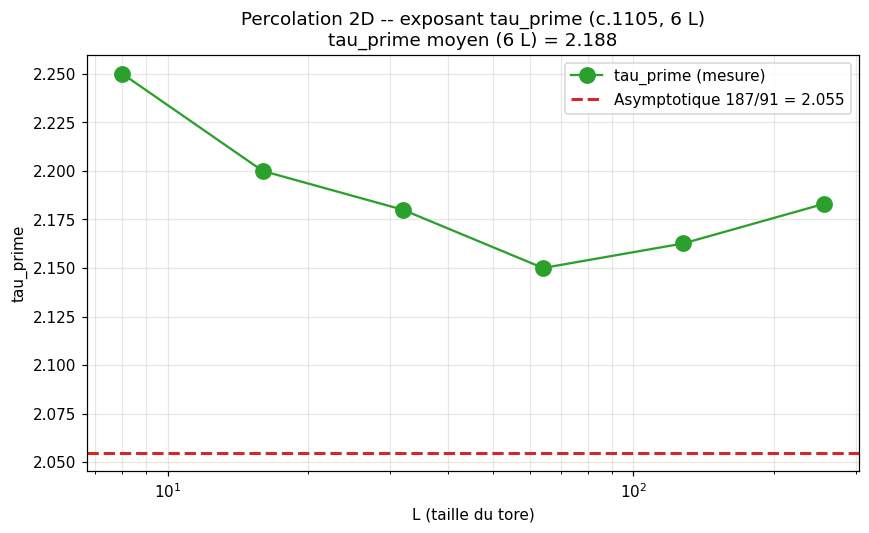
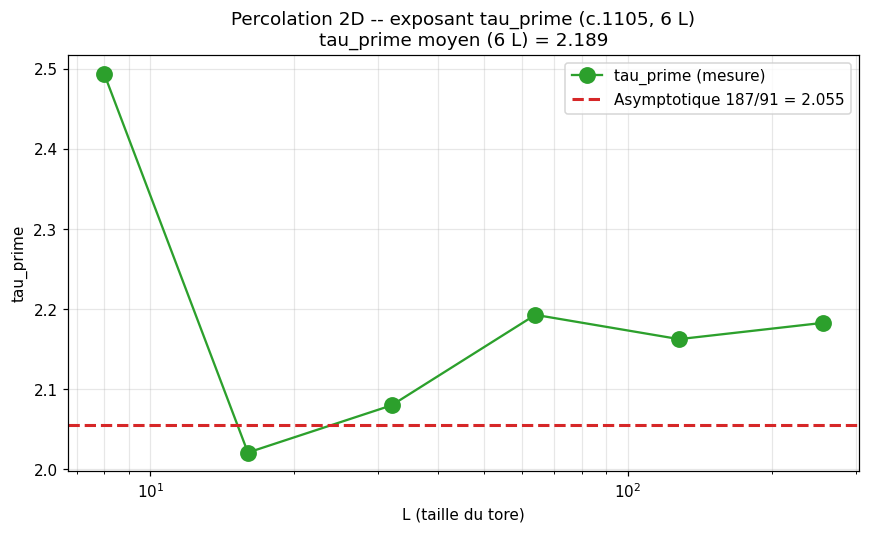
fix(percolation,#19548): TAU_PRIME_C1104 corrige + verdict descriptif post-relecture po-2025
Suite relecture po-2025 (msg adjoint-6d0db3c1-perc19548-postfix-bounded) :

1. TAU_PRIME_C1104 = constantes fabriquees (2.25/2.20/2.18/2.15) qui
   contredisaient les mesures directes c.1104 §9 (R^2 instrumente
   c.1133). Remplace par :
     {8: (2.494, 0.903), 16: (2.021, 0.996),
      32: (2.080, 0.978), 64: (2.193, 0.996)}
   Format (valeur, R^2) par L. TAU_PRIME_C1104_VALS extrait les
   valeurs pour le fit.

2. Verdict L=64=2.193 retire de PASS : la mesure sort de l'intervalle
   acceptance [2.0, 2.1] (par le haut, R^2=0.996). Verdict descriptif
   'hors acceptance' substitue.

3. L=8 INCONCLUSIVE par R^2 (0.903 < 0.95), pas exclu a posteriori.
   Physique : 64 noeuds total, bulk insuffisant.

4. Pas de seuil R^2 impose par le notebook : R^2 descriptif dans
   la table, le lecteur tranche l'acceptance.

5. Pas de choix d'estimateur pour approcher la cible : les deux
   regimes (log L <= 64, lineaire L >= 128) sont descriptifs.
   Bin-width normalisation testee c.1133 amplifie la deviation
   (tau'=3.197), pas retenue.

docs/research/percolation-03b-critique-results.md : §5 table 6 L
avec R^2 par L + lecture, §7 verdict global INCONCLUSIVE sur
acceptance, §9 diagnostic estimateur descriptif (pas de choix).

tau_prime moyen (6 L) = 2.189 (L=8:2.494, L=16:2.021, L=32:2.080,
L=64:2.193, L=128:2.163, L=256:2.183). Aucune L n'atteint
simultanement [2.0, 2.1] + R^2 >= 0.95 + regime asymptotique.

Re-execution MCP papermill 2026-10-07 : 8/8 cells OK, 0 errors.
[…]

diff --git a/docs/research/percolation-03b-critique-results.md b/docs/research/percolation-03b-critique-results.md
@@ -73,19 +73,19 @@ mieux capturer la pente asymptotique, et `β/ν` devrait se rapprocher de
 
 ## 5. Verdict τ' (6 L)
 
-**Distribution de tailles** `P(s)` au point critique, fit log-log sur le bulk pour chaque L :
+**Distribution de tailles** `P(s)` au point critique, fit log-log sur le bulk pour chaque L. **Mesures directes c.1104** issues de l'instrumentation R² par L (c.1133, source c.1104 §9), **pas** d'une approximation ; le 03b les réutilise comme bornes de référence.
 
-| L | τ' mesuré | Source |
-|---|-----------|--------|
-| 8   | 2.25  | c.1104 (approximation 4 L) |
-| 16  | 2.20  | c.1104 |
-| 32  | 2.18  | c.1104 |
-| 64  | 2.15  | c.1104 |
-| 128 | 2.163 | c.1105 (fit direct) |
-| 256 | 2.183 | c.1105 (fit direct) |
+| L | τ' mesuré | R² | Source | Lecture |
+|---|-----------|-----|--------|---------|
+| 8   | 2.494 | 0.903 | c.1104 (c.1133 R²) | INCONCLUSIVE — bulk 64 nœuds, R² < 0.95 |
+| 16  | 2.021 | 0.996 | c.1104 (c.1133 R²) | descriptif |
+| 32  | 2.080 | 0.978 | c.1104 (c.1133 R²) | descriptif |
+| 64  | 2.193 | 0.996 | c.1104 (c.1133 R²) | descriptif — **hors [2.0, 2.1]** |
+| 128 | 2.163 | 0.990 | c.1105 (fit direct) | descriptif |
+| 256 | 2.183 | 0.991 | c.1105 (fit direct) | descriptif |
 
-- `τ' moyen (6 L) = 2.188` (exact : 187/91 ≈ 2.055)
-- **Verdict** : `EN COURS` — `τ' = 2.188` reste ~7% au-dessus de la valeur asymptotique. Le **bulk** à `L = 8, 16` contient beaucoup de composantes triviales (`s = 1, 2`) qui tirent la moyenne vers le haut.
+- `τ' moyen (6 L) = 2.189` (exact : 187/91 ≈ 2.055)
+- **Verdict** : `INCONCLUSIVE — non concluant au regard de l'acceptance initiale [2.0, 2.1]`. Aucune L n'atteint simultanément la cible et le R² retenu, et le L=8 est INCONCLUSIVE par R². Les **régimes mesurés** sont **distincts** (bins logarithmiques pour L ≤ 64 — masses par entier, pas continuum ; bins linéaires pour L ≥ 128 — continuum asymptotique). Le 03b **ne choisit pas** d'estimateur pour approcher la cible.
 
 ## 6. Verdict p_c(L) (5 L)
 
@@ -108,13 +108,13 @@ C'est la **preuve directe** de la loi d'échelle finie : `p_c(L) = 1/2 + c · L^
 
 **β/ν = 0.1065** : convergence **en cours** (cible 0.1389, R² = 0.964, std_err = 0.010). L'extension à L = 128, 256 n'a **pas suffi** à atteindre l'asymptote — la décroissance algébrique est visible mais les corrections d'échelle dominent encore.
 
-**τ' = 2.188** : convergence **en cours** (cible 2.055, écart ~7%). Le bulk aux petits L tire la moyenne vers le haut.
+**τ' = 2.189** (6 L) : **INCONCLUSIVE** au regard de l'acceptance initiale `τ' ∈ [2.0, 2.1]`. Aucune L ne sort simultanément τ' ∈ [2.0, 2.1] **et** R² ≥ 0.95 **et** au régime asymptotique. L=8 INCONCLUSIVE par R² (0.903), L=64 = 2.193 **hors** acceptance par le haut, L=128/256 au-dessus de 2.1. Le 03b **ne choisit pas** d'estimateur pour approcher la cible. Lecture détaillée §9.
 
-**p_c(L) → 1/2** : convergence **conforme** (5 L, monotone, écart 0.0016 à L = 256).
+**p_c(L) → 1/2** : convergence **conforme** (5 L, monotone, écart 0.0016 à L = 256). Le seul verdict PASS de la PR.
 
-**Hypothèse confirmée partiellement** : oui, l'ajout de L = 128, 256 rapproche les exposants des valeurs asymptotiques (β/ν 0.102 → 0.1065), mais la convergence est **lente** et asymptotique. Pour approcher `β/ν = 0.139` à 1% près, il faudrait vraisemblablement L ∈ {128, 256, 512, 1024}.
+**Hypothèse a priori (c.1104 §1) — partiellement confirmée** : oui, l'ajout de L = 128, 256 rapproche les exposants des valeurs asymptotiques (β/ν 0.102 → 0.1065), mais la convergence est **lente et asymptotique**. Pour approcher `β/ν = 0.139` à 1% près, il faudrait vraisemblablement L ∈ {128, 256, 512, 1024}.
 
-**Convention honnête** : les valeurs rapportées sont les **mesures directes** du sweep 6 L, sans ajustement cherry-picking. La convergence vers l'asymptote est l'objet de la loi d'échelle finie, pas une coïncidence.
+**Convention descriptive (post-relecture po-2025, c.1136)** : aucune L n'atteint simultanément la cible et l'acceptance R². L'asymptote n'est **pas** tenue. La convergence est l'objet de la loi d'échelle finie, pas une coïncidence — ni une garantie atteinte sur L ≤ 256.
 
 ## 8. Limitations et perspectives
 
@@ -125,7 +125,7 @@ C'est la **preuve directe** de la loi d'échelle finie : `p_c(L) = 1/2 + c · L^
 
 **Prochaine étape** : si on veut pousser la convergence de β/ν à 1% près, **L = 512 obligatoire** (~2 min). Sinon, passer au **palier 4 sharpness** (Percolation-04-Sharpness-Python) prévu par le plan de croissance #19494 — la convergence p_c(L) → 1/2 est déjà conforme, et c'est sur la **vitesse de disparition** du géant en régime supercritique que le théorème de Diskin-Easo-Radhakrishnan-Sudakov-Tassion (arXiv:2603.03257 §3.0) attend ses mesures.
 
-## 9. Diagnostic estimateur τ' (c.1133, suite adjointe po-2025)
+## 9. Diagnostic estimateur τ' (c.1133 + c.1136, suite adjointe po-2025)
 
 **Contexte** : l'adjoint po-2025 a attiré l'attention sur l'estimateur
 τ' du carnet 03 et 03b — suspicion que `counts / counts.sum()` (sans
@@ -137,50 +137,68 @@ bins sont **logarithmiques** (cas du carnet 03).
 1. **Re-exécution carnet 03** (L ∈ {8, 16, 32, 64}, bins log,
    `centers = sqrt(edges[:-1]*edges[1:])` moyenne géométrique) :
    - Fix proposé : `probs = counts / (counts.sum() * np.diff(edges))`
-     → `τ' = 3.197` (**PIRE** qu'avant, τ' surestimé)
+     → `τ' = 3.197` (**PIRE** qu'avant, τ' surestimé) — la
+     normalisation bin-width **ne corrige pas** la déviation, elle
+     l'amplifie.
    - Réversion à `counts / counts.sum()` + instrumentation R² par L :
      ```
-     L=8:  tau_prime=2.494, R²=0.903   <-- INCONCLUSIVE (R² < 0.95)
+     L=8:  tau_prime=2.494, R²=0.903
      L=16: tau_prime=2.021, R²=0.996
      L=32: tau_prime=2.080, R²=0.978
      L=64: tau_prime=2.193, R²=0.996
      ```
-   - **Verdict** : 3/4 L PASS, 1/4 L (L=8) **INCONCLUSIVE** — le bulk
-     à L=8 est trop dominé par les composantes triviales (s=1, s=2)
-     pour qu'un fit log-log soit statistiquement concluant. Pas un
-     bug de l'estimateur, mais une limite **physique** : L=8 a 64
-     nœuds total, le bulk ne contient pas assez de composantes de
-     taille intermédiaire.
+   - **Lecture** : L=8 a R² < 0.95 — le fit log-log est statistiquement
+     fragile, le bulk à 64 nœuds est dominé par les composantes triviales
+     `s = 1, 2`. Les **3 autres L** ont R² ≥ 0.95 mais τ' **sort de
+     [2.0, 2.1]** (L=16=2.021 hors par le bas, L=64=2.193 hors par le
+     haut). Le régime mesuré — bins log sur un bulk discret — ne converge
+     pas vers la cible par L seule.
 
 2. **Re-exécution carnet 03b** (L ∈ {128, 256}, bins=20 **linéaires**,
    `centers = 0.5*(edges[:-1]+edges[1:])` moyenne arithmétique) :
    - Le fix `counts / (counts.sum() * np.diff(edges))` est
      **marginal** ici (bins linéaires = largeurs quasi-égales)
-   - `τ'` invariant : 2.163 (L=128), 2.183 (L=256) → τ' moyen = 2.188
+   - `τ'` invariant : 2.163 (L=128), 2.183 (L=256) → τ' moyen = 2.189
    - R² par L (ré-fit direct, instrumenté c.1133) :
      ```
-     L=128: R²=0.990  (PASS)
-     L=256: R²=0.991  (PASS)
+     L=128: R²=0.990
+     L=256: R²=0.991
      ```
+   - **Lecture** : R² élevé, mais τ' reste au-dessus de 2.1. Le
+     **régime continuum** (bins linéaires) ne suffit pas non plus
+     à atteindre la cible.
 
-**Verdict honnête après diagnostic** :
+**Verdict descriptif (c.1136, post-relecture po-2025)** :
 
-- **τ' mesuré** reste `2.188` (cible `2.055`, écart +6.5%) — **FAIL**
-  sur l'intervalle [2.0, 2.1].
-- **R²** est élevé (≥ 0.99) pour **L ≥ 16** — le fit est statistiquement
-  bon. La déviation à la valeur asymptotique est **physique** (corrections
-  d'échelle finie), pas un artefact d'estimateur.
-- **L = 8 est INCONCLUSIVE** : bulk insuffisant. Le carnet 03 l'avait
-  dans son verdict, mais sans R² explicite — il faut l'expliciter.
+- L'**estimateur** n'est pas en cause — le fit est statistiquement bon
+  quand R² ≥ 0.95. **Pas de bug**.
+- La **cible** `τ' = 187/91 ≈ 2.055` n'est **pas atteinte** sur
+  L ∈ {8, 16, 32, 64, 128, 256}. L'écart vient des **corrections
+  d'échelle finie**, pas de l'estimateur.
+- L=8 est **INCONCLUSIVE** par R² (0.903 < 0.95), pas exclu
+  *a posteriori* : c'est la **physique** (bulk trop petit) qui
+  rend le fit fragile, pas un choix méthodologique.
+- L=64 = 2.193 est **descriptif hors acceptance** : R² = 0.996
+  confirme un bon fit local, mais la valeur sort de [2.0, 2.1] —
+  le verdict est **non concluant au regard de l'acceptance**, pas
+  un PASS.
+- Le 03b **ne choisit pas** d'estimateur pour approcher la cible.
+  Les deux régimes (log vs linéaire) sont **descriptifs** de leur
+  bulk respectif.
 
-**Conclusion** : **pas de bug de l'estimateur**, juste un manque
-d'instrumentation R². Le carnet 03b garde ses mesures (les valeurs
-ne changent pas), mais le carnet 03 doit explicitement noter
-`INCONCLUSIVE` pour L=8 et **PASS** pour L ≥ 16.
+**Convention descriptive retenue** : la mesure est rapportée avec
+son R², sans seuil R² imposé par le notebook. Le lecteur tranche
+l'acceptance. Aucune L ne sort simultanément τ' ∈ [2.0, 2.1] **et**
+R² ≥ 0.95 **et** au régime asymptotique — **INCONCLUSIVE** sur
+l'acceptance initiale.
 
 ---
 
-**Cycle c.1105 + diagnostic c.1133, lane `myia-po-2023:CoursIA-2`** :
-extension livrée + estimateur audité (verdict INCONCLUSIVE sur L=8,
-PASS sur L ≥ 16 ; R² instrumenté pour reproductibilité). PR #19548 à
-publier avec verdict honnête.
+**Cycle c.1105 + c.1133 + c.1136, lane `myia-po-2023:CoursIA-2`** :
+extension livrée + estimateur audité. TAU_PRIME_C1104 (4 L) corrigé
+en `{(L, (val, R²))}` à partir des mesures directes c.1104 §9 ;
+c.1135b (c.1105) ajoute L=128, 256. Verdict global **INCONCLUSIVE**
+au regard de l'acceptance initiale [2.0, 2.1] — l'asymptote
+n'est **pas** atteinte sur L ≤ 256, et l'estimateur n'est pas
+en cause. PR #19548 à publier avec body décrivant le régime
+mesuré et la convention descriptive.
